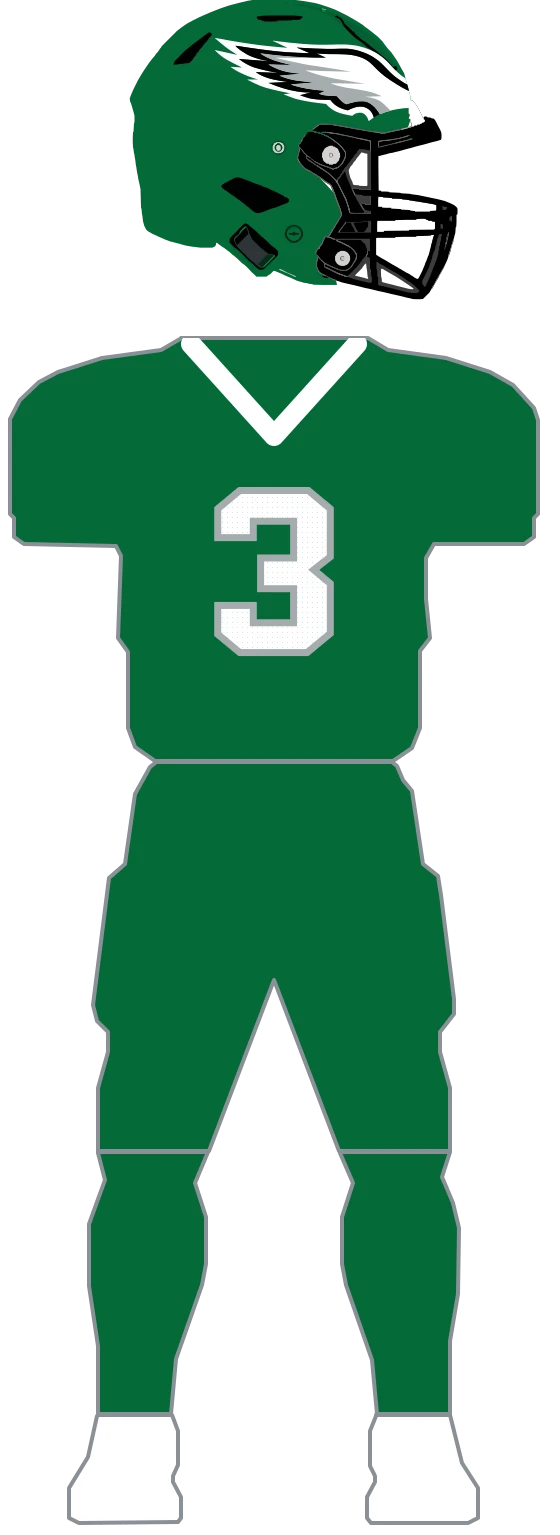
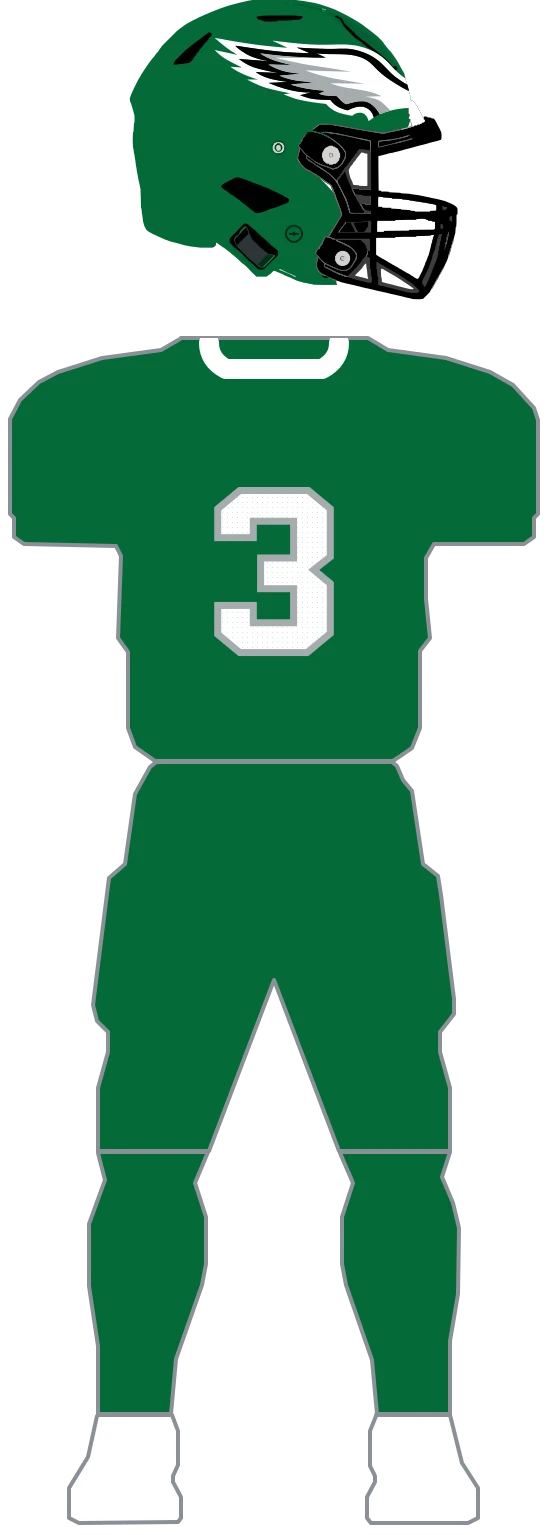
feat(uniforms): split Eagles throwback collar
Use the period rounded collar for the 1987 Kelly Green jersey and regenerate its rasters.

Changed region(s): [[0.3036, 0.2143, 0.6679, 0.3062]]

diff --git a/web/lib/uniforms/teams/eagles.parts.ts b/web/lib/uniforms/teams/eagles.parts.ts
@@ -20,6 +20,7 @@ import {
   EAGLES_DECAL_WHITE_PATH,
 } from './eagles';
 import { compileParts, type PartLayer, type TeamPartsDefinition, type UniformPart } from './parts';
+import { LEGACY_ROUNDED_COLLAR_PATH } from './shared';
 
 // The wing — source paint order is white substrate, black feather channels, then silver body.
 // Every shell shares this exact placement and fixed palette.
@@ -75,12 +76,12 @@ function cuff(color: string): PartLayer[] {
 }
 
 // The deep collar yoke (deeper than the generic chevron).
-function collar(color: string): PartLayer[] {
+function collar(color: string, path = EAGLES_COLLAR_PATH): PartLayer[] {
   return [
     {
       id: 'eagles-collar',
       surface: 'collar',
-      d: EAGLES_COLLAR_PATH,
+      d: path,
       clip: true,
       kind: 'stroke',
       stroke: color,
@@ -122,7 +123,7 @@ const JERSEY_BLACK: UniformPart = {
 // Kelly-green jersey (J2): kelly body, NO cuff, white collar, white numerals keylined silver.
 const JERSEY_KELLY: UniformPart = {
   base: 'kelly',
-  layers: [...collar('white')],
+  layers: [...collar('white', LEGACY_ROUNDED_COLLAR_PATH)],
   number: { fill: 'white', outline: 'silver', outlineWidth: 14 },
 };
 
